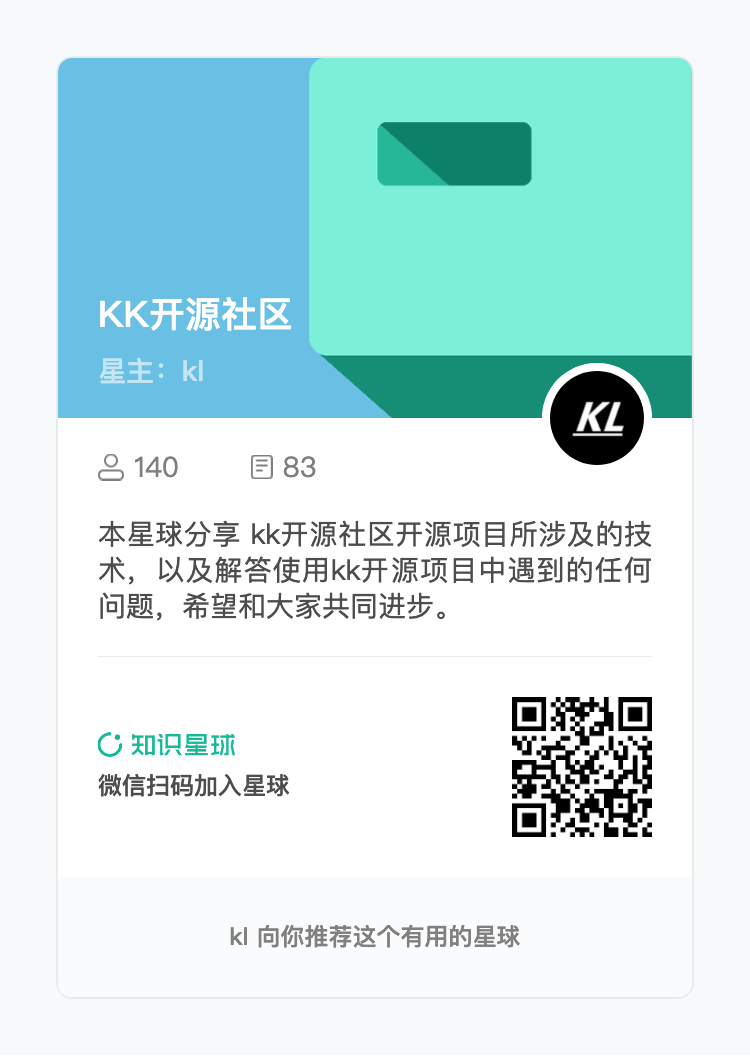
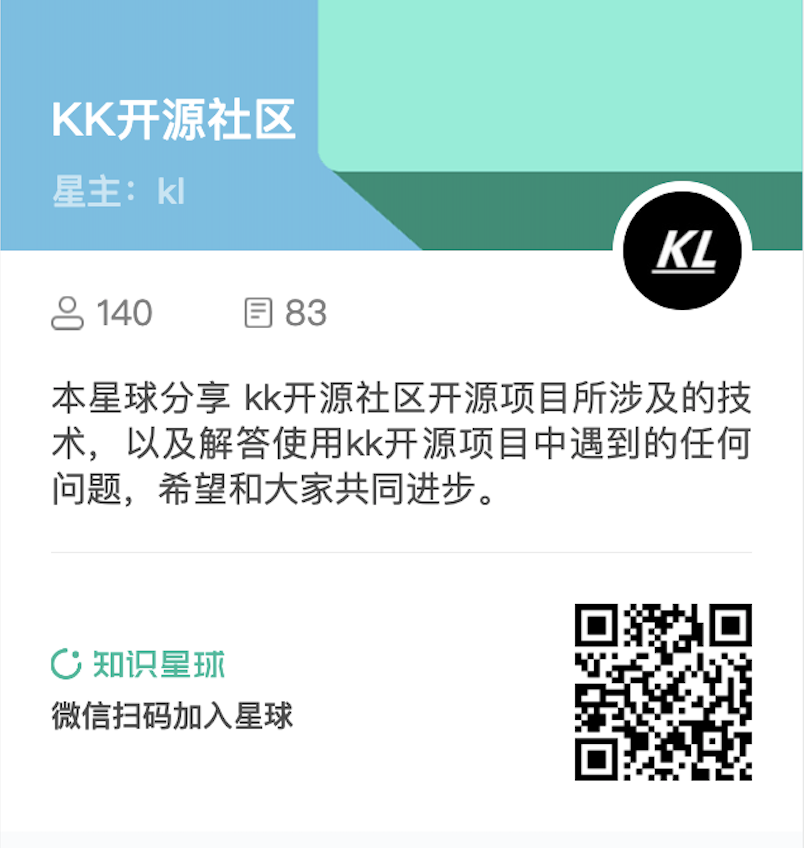
Update documentation

diff --git a/README.cn.md b/README.cn.md
@@ -47,8 +47,7 @@
 ### 联系我们，加入组织
 > 我们会用心回答解决大家在项目使用中的问题，也请大家在提问前至少 Google 或 baidu 过，珍爱生命远离无效的交流沟通
 
-![](./doc/gitee星球.png) 
-
+<img src="./doc/gitee星球.png/" width="50%">
 
 ### 文档预览效果
 #### 1. 文本预览
